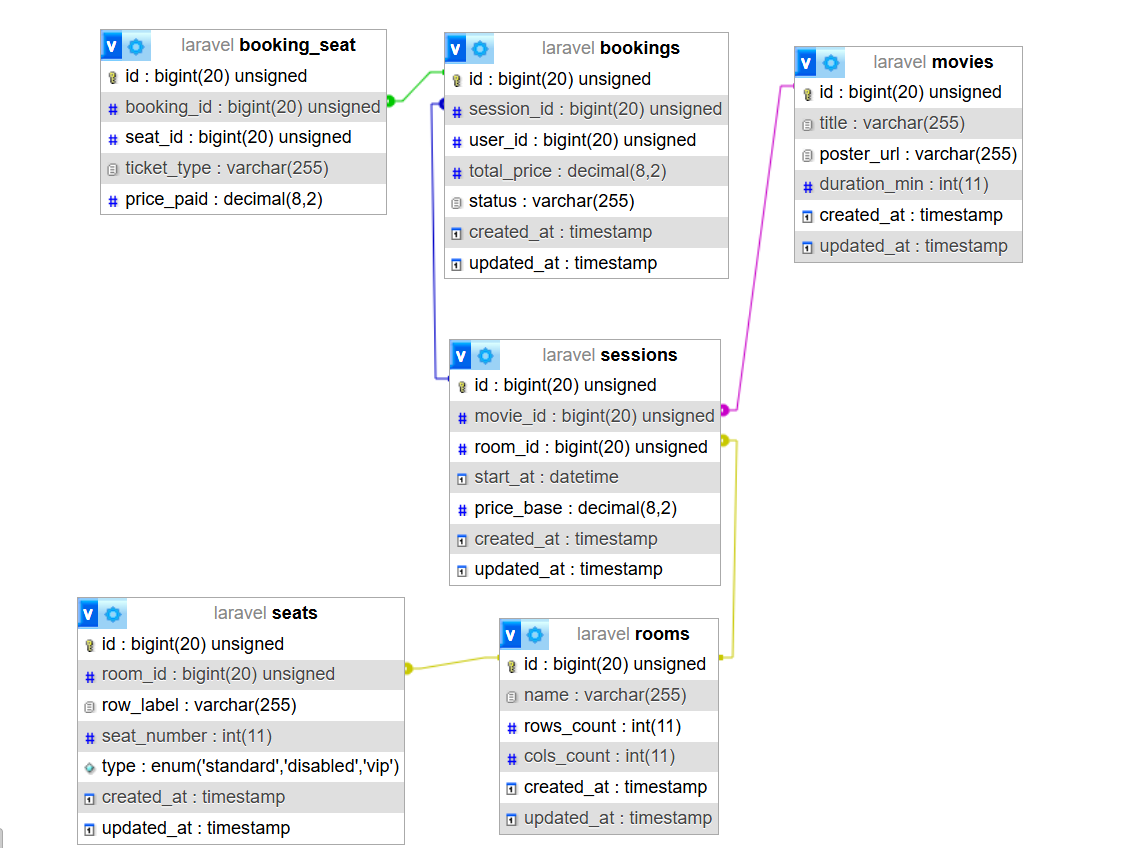
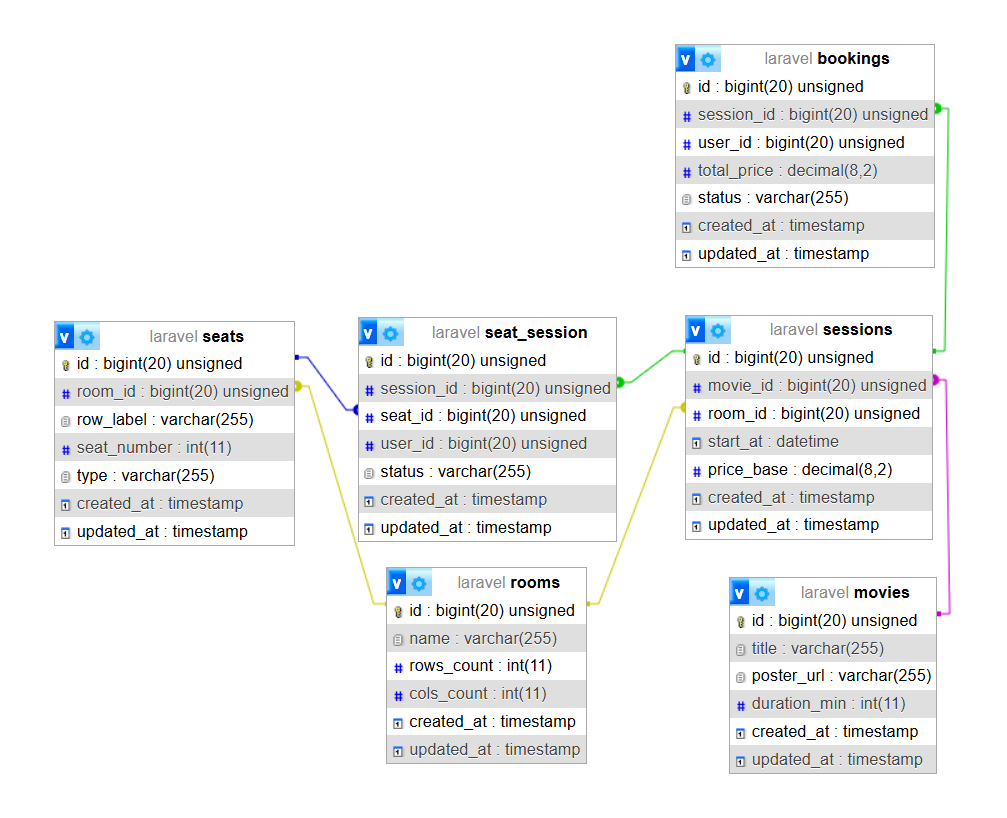
0.2 Cambio de la logica de BD

diff --git a/backend/database/seeders/CinemaSeeder.php b/backend/database/seeders/CinemaSeeder.php
@@ -1,0 +1,92 @@
+<?php
+
+namespace Database\Seeders;
+
+use Illuminate\Database\Console\Seeds\WithoutModelEvents;
+use Illuminate\Database\Seeder;
+use Illuminate\Support\Facades\DB;
+use Carbon\Carbon;
+
+class CinemaSeeder extends Seeder
+{
+    /**
+     * Run the database seeds.
+     */
+    public function run(): void
+    {
+        $this->command->info('Seeding Movies...');
+        // 1. Crear Películas
+        $movies = [
+            ['title' => 'Inception', 'poster_url' => 'inception.jpg', 'duration_min' => 148],
+            ['title' => 'Interstellar', 'poster_url' => 'interstellar.jpg', 'duration_min' => 169],
+            ['title' => 'The Dark Knight', 'poster_url' => 'dark_knight.jpg', 'duration_min' => 152],
+        ];
+
+        foreach ($movies as $movie) {
+            DB::table('movies')->insert([
+                'title' => $movie['title'],
+                'poster_url' => $movie['poster_url'],
+                'duration_min' => $movie['duration_min'],
+                'created_at' => now(),
+                'updated_at' => now(),
+            ]);
+        }
+        $this->command->info('Movies seeded.');
+
+        $this->command->info('Seeding Rooms...');
+        // 2. Crear Salas
+        $rooms = [
+            ['name' => 'Sala A', 'rows_count' => 5, 'cols_count' => 10], // 50 asientos
+            ['name' => 'Sala B', 'rows_count' => 8, 'cols_count' => 12], // 96 asientos
+        ];
+
+        foreach ($rooms as $roomData) {
+            $roomId = DB::table('rooms')->insertGetId([
+                'name' => $roomData['name'],
+                'rows_count' => $roomData['rows_count'],
+                'cols_count' => $roomData['cols_count'],
+                'created_at' => now(),
+                'updated_at' => now(),
+            ]);
+
+            $this->command->info("Seeding Seats for Room $roomId...");
+            // 3. Crear Asientos para la Sala (Lógica VIP/Disabled)
+            for ($row = 1; $row <= $roomData['rows_count']; $row++) {
+                $rowLabel = chr(64 + $row); // A, B, C...
+                
+                for ($num = 1; $num <= $roomData['cols_count']; $num++) {
+                    $type = 'standard';
+                    
+                    if ($row === 1) $type = 'disabled'; // Primera fila
+                    if ($row === 3) $type = 'vip';      // Tercera fila
+                    
+                    DB::table('seats')->insert([
+                        'room_id' => $roomId,
+                        'row_label' => $rowLabel,
+                        'seat_number' => $num,
+                        'type' => $type,
+                        'created_at' => now(),
+                        'updated_at' => now(),
+                    ]);
+                }
+            }
+        }
+        $this->command->info('Rooms and Seats seeded.');
+
+        $this->command->info('Seeding Sessions...');
+        // 4. Crear Sesiones (Ejemplo)
+        $sessionDate = Carbon::tomorrow()->setTime(18, 0, 0);
+        
+        $firstMovieId = DB::table('movies')->first()->id;
+        $firstRoomId = DB::table('rooms')->first()->id;
+
+        DB::table('sessions')->insert([
+            'movie_id' => $firstMovieId,
+            'room_id' => $firstRoomId,
+            'start_at' => $sessionDate,
+            'price_base' => 9.50,
+            'created_at' => now(),
+            'updated_at' => now(),
+        ]);
+    }
+}

diff --git a/backend/database/migrations/2026_02_09_111019_create_bookings_table.php b/backend/database/migrations/2026_02_09_111019_create_bookings_table.php
@@ -13,23 +13,14 @@ return new class extends Migration
     {
         Schema::create('bookings', function (Blueprint $table) {
             $table->id();
-            $table->foreignId('session_id')->constrained(); // Esta funciona porque 'sessions' ya existe.
-            
-            // CAMBIO AQUÍ: Eliminamos ->constrained()
+            $table->foreignId('session_id')->constrained()->onDelete('cascade'); 
             $table->unsignedBigInteger('user_id')->nullable(); 
             
             $table->decimal('total_price', 8, 2);
             $table->string('status')->default('confirmed');
             $table->timestamps();
         });
-
-        Schema::create('booking_seat', function (Blueprint $table) {
-            $table->id();
-            $table->foreignId('booking_id')->constrained()->onDelete('cascade');
-            $table->foreignId('seat_id')->nullable(); 
-            $table->string('ticket_type');
-            $table->decimal('price_paid', 8, 2);
-        });
+        // bookings_seat table removed as per new logic
     }
 
     /**
@@ -37,7 +28,6 @@ return new class extends Migration
      */
     public function down(): void
     {
-        Schema::dropIfExists('booking_seat');
         Schema::dropIfExists('bookings');
     }
 };

diff --git a/backend/database/migrations/2026_02_09_111020_create_seat_sessions_table.php b/backend/database/migrations/2026_02_09_111020_create_seat_sessions_table.php
@@ -11,13 +11,12 @@ return new class extends Migration
      */
     public function up(): void
     {
-        Schema::create('seats', function (Blueprint $table) {
+        Schema::create('seat_session', function (Blueprint $table) {
             $table->id();
-            $table->foreignId('room_id')->constrained()->onDelete('cascade');
-            $table->string('row_label'); // 'A', 'B', 'C'
-            $table->integer('seat_number'); // 1, 2, 3
-            // Tipo: 'standard', 'vip' (Fila 3), 'disabled' (Fila 1)
-            $table->string('type')->default('standard'); 
+            $table->foreignId('session_id')->constrained()->onDelete('cascade');
+            $table->foreignId('seat_id')->constrained()->onDelete('cascade');
+            $table->foreignId('user_id')->nullable(); // Quién lo compró
+            $table->string('status'); // 'sold', 'reserved'
             $table->timestamps();
         });
     }
@@ -27,6 +26,6 @@ return new class extends Migration
      */
     public function down(): void
     {
-        Schema::dropIfExists('seats');
+        Schema::dropIfExists('seat_session');
     }
 };

diff --git a/backend/database/seeders/DatabaseSeeder.php b/backend/database/seeders/DatabaseSeeder.php
@@ -17,9 +17,13 @@ class DatabaseSeeder extends Seeder
     {
         // User::factory(10)->create();
 
-        User::factory()->create([
-            'name' => 'Test User',
-            'email' => 'test@example.com',
+        // User::factory()->create([
+        //     'name' => 'Test User',
+        //     'email' => 'test@example.com',
+        // ]);
+
+        $this->call([
+            CinemaSeeder::class,
         ]);
     }
 }

diff --git a/doc/README.md b/doc/README.md
@@ -17,13 +17,24 @@ Hemos definido que un asiento pasará por tres estados:
 
 ## 3. Modelo de Datos (Laravel + MySQL)
 
-Hemos estructurado las 5 tablas clave:
+Se ha implementado una lógica de **"Asiento por excepción"** para optimizar el rendimiento y almacenamiento.
+
+### La Nueva Lógica de la DB
+
+- **Tabla `seats` (Maestra):** Solo contiene la configuración física de la sala (dónde hay un asiento y qué tipo es: standard, vip, disabled). Esta tabla es estática y define el mapa de la sala.
+- **Tabla `bookings` / `seat_session` (Dinámica):** Aquí se registran las ocupaciones. Solo se inserta una fila en `seat_session` cuando un asiento es reservado o vendido para una sesión específica.
+
+**¿Cómo sabemos si un asiento está libre?**
+Si el asiento X de la Sala Y **no existe** en la tabla `seat_session` para la Sesión Z, entonces está **disponible**.
+
+### Tablas Clave
 
 - `movies`: Títulos y posters.
-- `rooms`: Dimensiones de las salas (filas/columnas).
-- `sessions`: Cruce de película, sala, hora y precio.
-- `seats`: Ubicación física (Fila A, Asiento 5).
-- `bookings` + `booking_seat`: Registro de la venta final con el tipo de entrada (niño, socio, etc.).
+- `rooms`: Dimensiones de las salas.
+- `sessions`: Sesiones programadas (película, sala, hora).
+- `seats`: Configuración física de los asientos (Fila, Número, Tipo).
+- `bookings`: Cabecera de la reserva (Usuario, Total, Estado).
+- `seat_session`: Registro individual de cada asiento ocupado en una sesión.
 
 ![Esquema de Base de Datos](./Esquema_de_base_datos.png)
 
